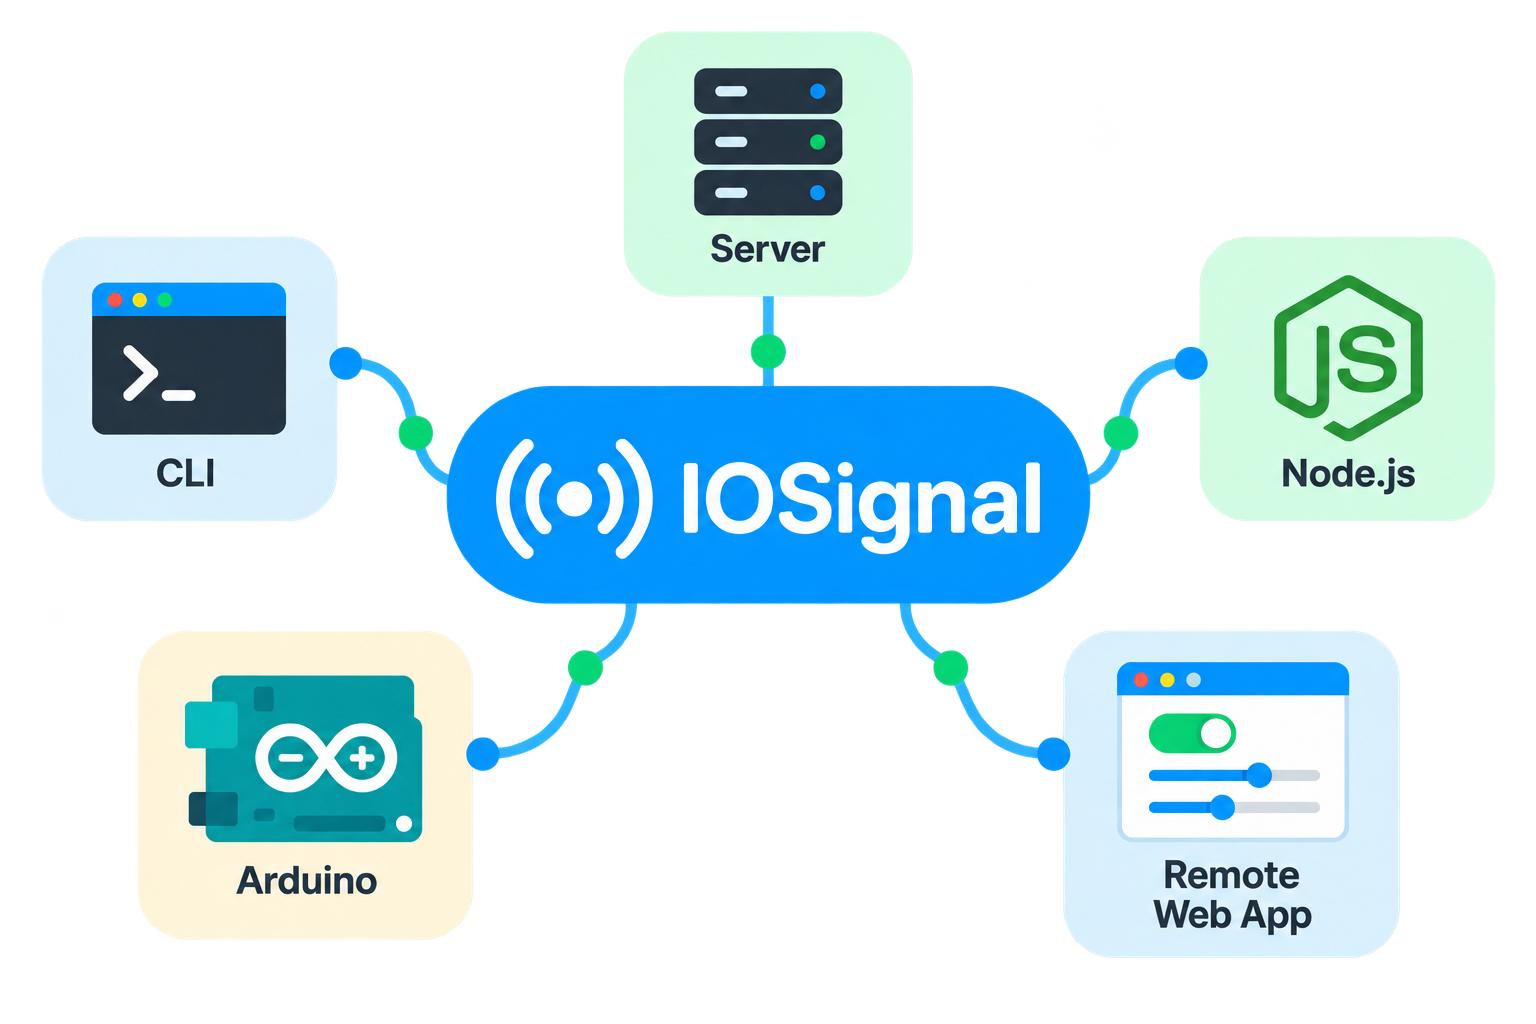
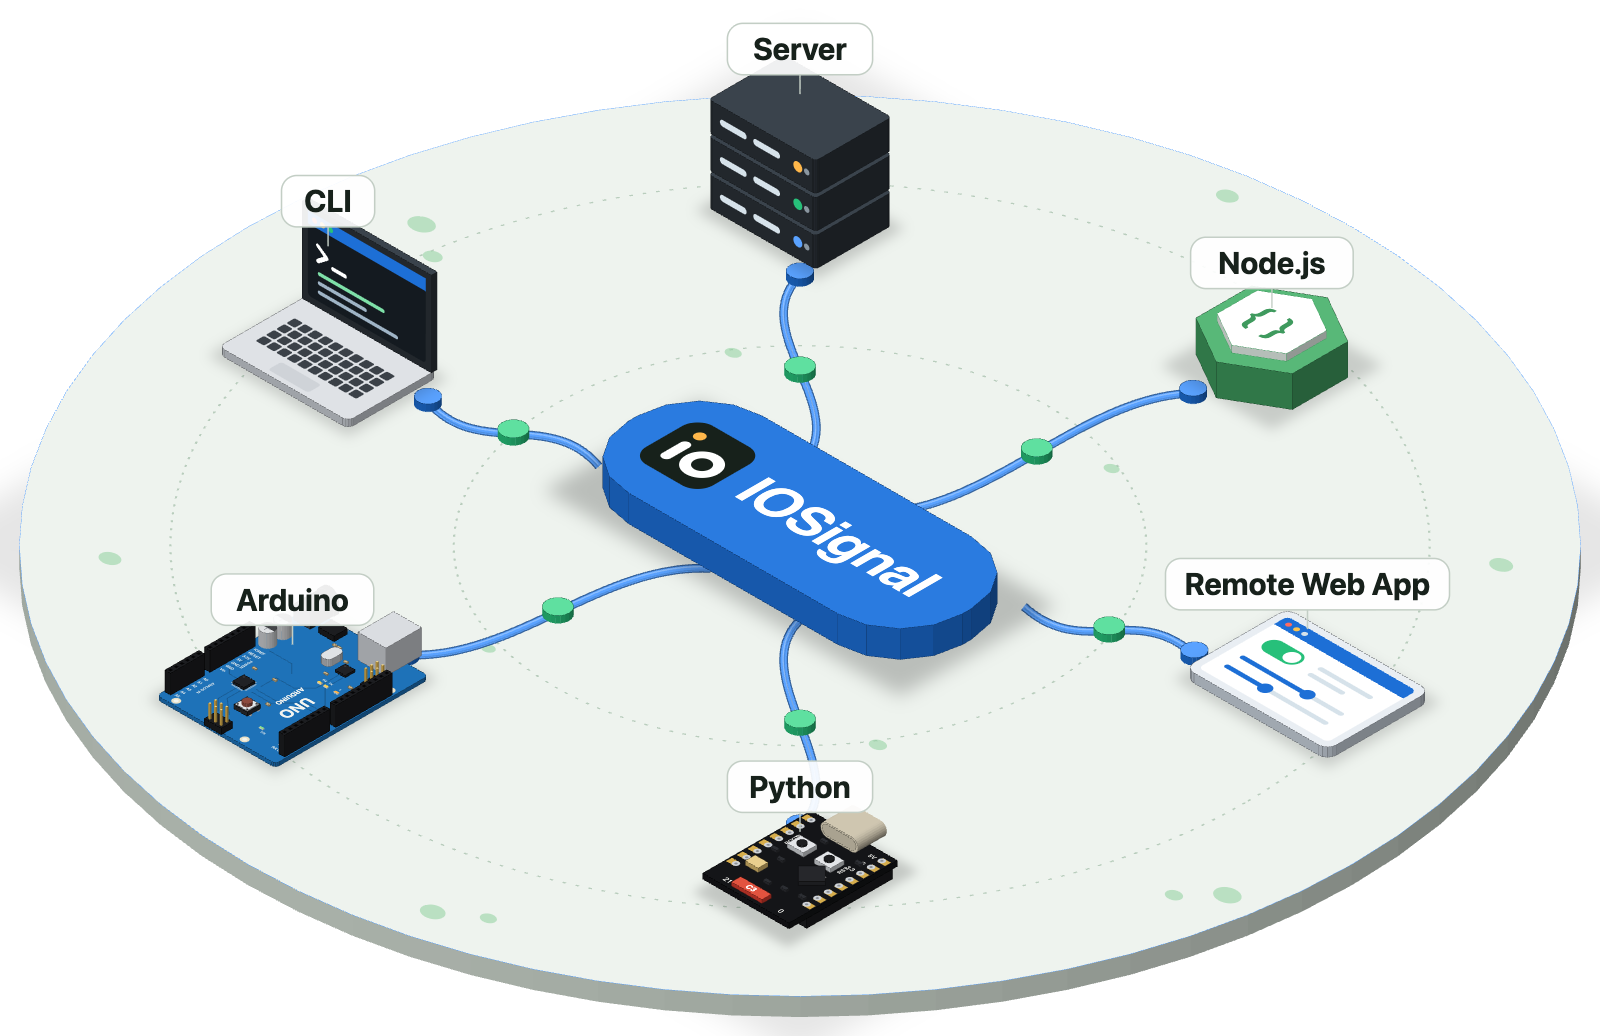
README image: isometric IOSignal ecosystem picture with Python

diff --git a/packages/remocon/README.en.md b/packages/remocon/README.en.md
@@ -7,7 +7,7 @@ The remocon package version is **10.0.0** and uses IOSignal **10.0.0** or later.
 Connect to an IOSignal server to run one-shot commands, line input, key input, or interactive commands. Requires Node.js 22.16.0 or later.
 
 <p align="center">
-  <img src="https://raw.githubusercontent.com/remocons/iosignal-cli/main/packages/remocon/docs/assets/iosignal-ecosystem.png" alt="Server, CLI, Node.js, Arduino and remote web apps connected through IOSignal" width="720" />
+  <img src="https://raw.githubusercontent.com/remocons/iosignal-cli/main/packages/remocon/docs/assets/iosignal-ecosystem.png" alt="Server, CLI, Node.js, Arduino, Python and a remote web app connected through IOSignal" width="720" />
 </p>
 
 ## Installation and usage

diff --git a/packages/iosignal-cli/README.en.md b/packages/iosignal-cli/README.en.md
@@ -7,7 +7,7 @@ The CLI package version is **10.0.0** and uses IOSignal **10.0.0** or later. In 
 iosignal-cli runs an IOSignal server or an interactive client.
 
 <p align="center">
-  <img src="https://raw.githubusercontent.com/remocons/iosignal-cli/main/packages/iosignal-cli/docs/assets/iosignal-ecosystem.png" alt="Server, CLI, Node.js, Arduino and remote web apps connected through IOSignal" width="720" />
+  <img src="https://raw.githubusercontent.com/remocons/iosignal-cli/main/packages/iosignal-cli/docs/assets/iosignal-ecosystem.png" alt="Server, CLI, Node.js, Arduino, Python and a remote web app connected through IOSignal" width="720" />
 </p>
 
 ## Installation
